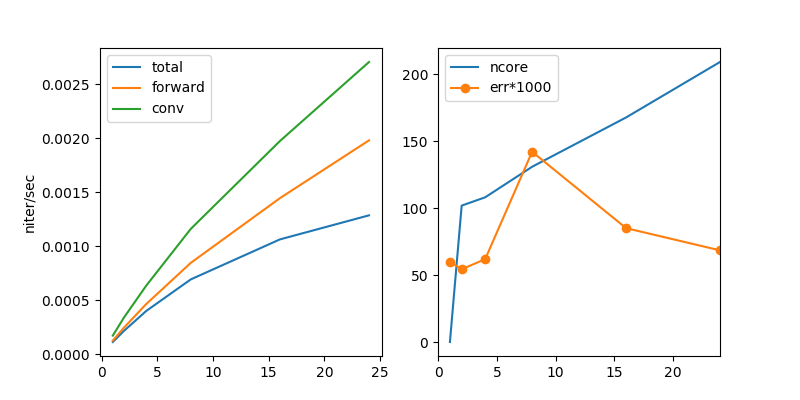
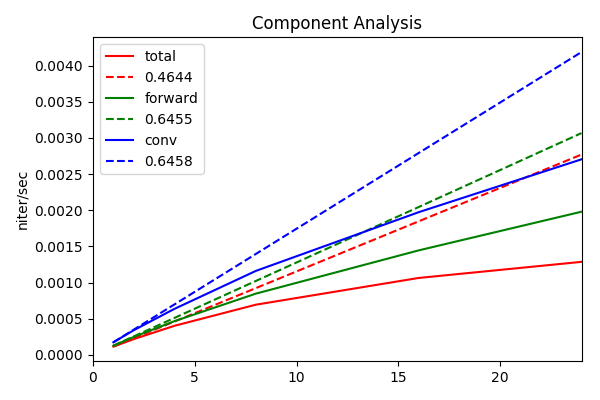
mpi benchmark

diff --git a/notes/plot.py b/notes/plot.py
@@ -62,24 +62,68 @@ def show_kernel44K(bentch_id):
 def show_mpiacc(task='tianhe'):
     tdata = np.loadtxt('mpiacc-%s.tbl'%task)
     ncores, t_tots, t_fors, t_cnvs, t_mpis, accs = tdata.T
+    tmpis = t_tots-t_fors
     plt.ion()
-    plt.figure(figsize=(8,4))
-    plt.subplot(121)
+    plt.figure(figsize=(6,4))
+    plt.title('Component Analysis')
     plt.ylabel('niter/sec')
-    plt.plot(ncores, 1./tdata[:,1:4])
-    plt.legend(['total','forward','conv'])
-    plt.subplot(122)
-    plt.plot(ncores, t_mpis)
-    plt.plot(ncores, accs*1000, '-o')
-    plt.legend(['ncore','err*1000'])
+    for data, color in zip(tdata[:,1:4].T, ['r','g','b']):
+        plt.plot(ncores, 1./data, color=color)
+        plt.plot(ncores, 1./data[0]*ncores, color=color, ls='--')
+    plt.legend(['total', '%.4f'%(tdata[0,1]/tdata[-1,1]/ncores[-1]),'forward',
+        '%.4f'%(tdata[0,2]/tdata[-1,2]/ncores[-1]),
+        'conv','%.4f'%(tdata[0,3]/tdata[-1,3]/ncores[-1])])
     plt.xlim(0,24)
+    plt.tight_layout()
     pdb.set_trace()
     plt.savefig('img/mpiacc-%s.png'%task)
+
+def show_mpi_err():
+    task='tianhe'
+    tdata = np.loadtxt('mpiacc-%s.tbl'%task)
+    ncores, t_tots, t_fors, t_cnvs, t_mpis, accs = tdata.T
+    #plt.plot(ncores, 1./ncores/t_tots[:]*t_tots[0])
+    plt.ion()
+    plt.figure(figsize=(6,4))
+    plt.plot(ncores, accs, '-o')
+    plt.xlim(0,24)
+    plt.title('Error in 100 steps')
+    plt.xlabel('#  of cores')
+    pdb.set_trace()
+    plt.savefig('img/mpiacc-error-%s.png'%task)
+
+def show_mpiparts():
+    task='tianhe'
+    tdata = np.loadtxt('mpiacc-%s.tbl'%task)
+    ncores, t_tots, t_fors, t_cnvs, t_mpis, accs = tdata.T
+    tcals = t_tots-t_mpis
+    a, b = np.polyfit(ncores, tcals*ncores,1)  #resource = a*x+b
+    label = 'parallel = %s, sequencial = %s'%(b, a)
+
+    plt.ion()
+    plt.figure(figsize=(6,4))
+    #plt.plot(ncores, tcals, color='k')
+    #plt.plot(ncores, b/ncores)
+    #plt.plot(ncores, a*np.ones(len(ncores)))
+    #plt.plot(ncores, t_mpis)
+    plt.plot(ncores, tcals*ncores, color='k')
+    plt.plot(ncores, b*np.ones(len(ncores)))
+    plt.plot(ncores, a*ncores)
+    plt.plot(ncores, t_mpis*ncores)
+
+    plt.ylabel('Resources',fontsize=14)
+    plt.legend(['Total','Parallel','Sequencial','Transimision'])
+    plt.xlim(0,24)
+    plt.tight_layout()
+
+    pdb.set_trace()
+    plt.savefig('img/mpiacc-parts-tianhe.png')
 
 if __name__ == '__main__':
     #show_bentch44K()
     #show_bentch44dn()
     #show_kernel44K(1)
     #show_bentch44dncr()
-    show_mpiacc('tianhe')
-    #show_mpiacc('beijing')
+    show_mpiacc('delta')
+    #show_mpiparts()
+    #show_mpi_err()

diff --git a/notes/report.md b/notes/report.md
@@ -402,3 +402,18 @@ Fig: In above legends r for real product layer, c for complex. 2, 7, 8 are targe
 * complex product layers are stabler than real ones.
 * network - 7 (32, 64, 512, 64, 8), performance of deep and wide network is similar to shallow network - 2 (16, 128, 32), all with error $<0.1\%$, but converge slower.
 * number of features in product network is important.
+
+# Day 11 Sep
+## MPI Acceleration Test
+Number of flops on TianHe and Delta servers as a function of number of cores.
+|           TianHe           |         Delta101          |          Delta102          |
+| :------------------------: | :-----------------------: | :------------------------: |
+| ![](img/mpiacc-tianhe.png) | ![](img/mpiacc-delta.png) | ![](img/mpiacc-delta2.png) |
+The forward method of convolusion layer take >50% resources, good news.
+
+Resources spent on Parrallel/ Sequencial/ Transimission (Tian He as an example)
+![](img/mpiacc-parts-tianhe.png)
+
+Resources spent on Parrallel/ Sequencial/ Transimission (Tian He as an example)
+Error in 100 step didn't blow up.
+![](img/mpiacc-error-tianhe.png)
